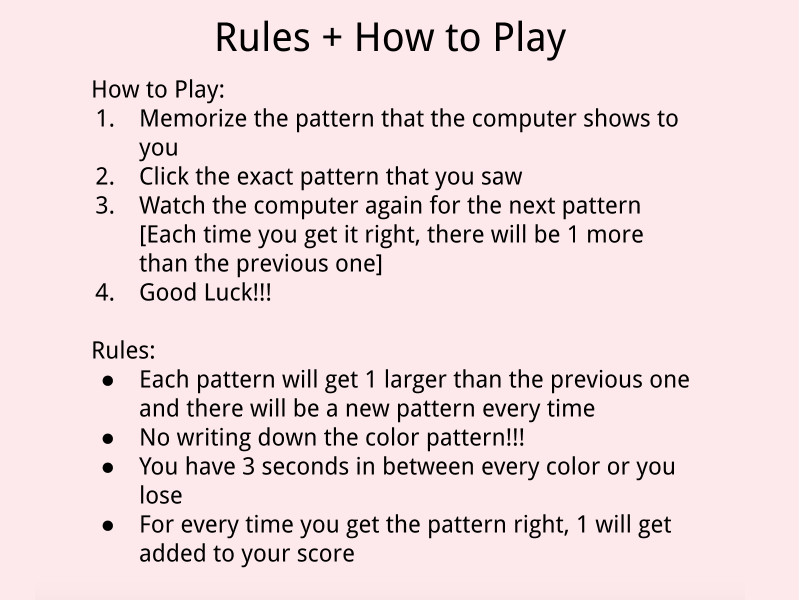
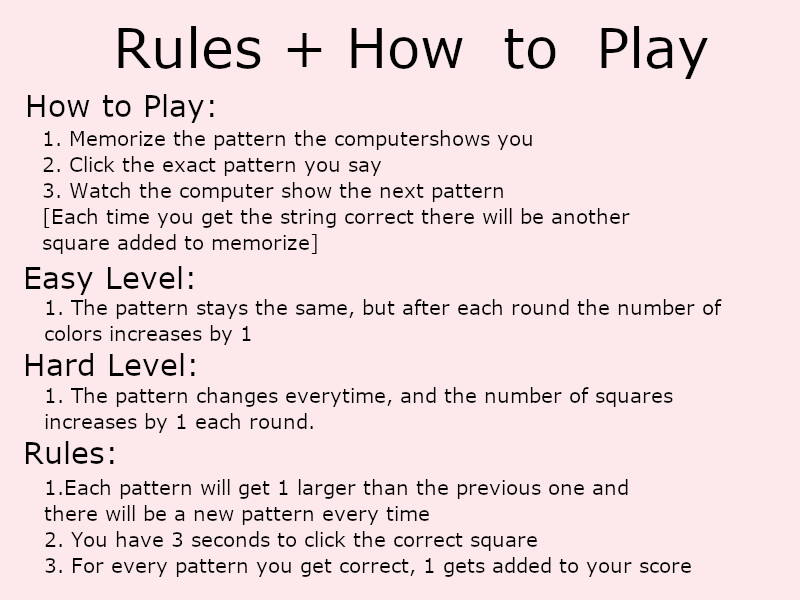
Add files via upload

Changed region(s): [[0.0312, 0.03, 0.9062, 0.96], [0.75, 0.03, 0.9062, 0.12]]

diff --git a/final project/Game.py b/final project/Game.py
@@ -4,14 +4,13 @@ import time
 from Buttons import Button
 from ColorBox import ColorBox
 from Backdrop import Backdrop
-from constants import RED, YELLOW, BLUE, GREEN, FPS, WIDTH, HEIGHT, DISPLAY, PLAY, FAILED, RULES, START, PLAY_BUTTON, BACK_BUTTON, QUIT_BUTTON, REPLAY_BUTTON, RULES_BUTTON, QUIT
+from constants import *
 
 class Game():
     """A class that holds the entire game"""
     # pythons way of stating that something is being done to a specific object is called "self"
     def __init__(self):
         pygame.init()
-
 
         self.phase = START
         self.current_index = 0
@@ -20,15 +19,25 @@ class Game():
         self.color_index = 0
         self.total_colors = 4
         self.total_score  = 0
-        self.color_list = self.get_color_list(self.total_colors)
+        self.color_list = []
+        self.get_color_list(self.total_colors)
+
+        self.difficulty = None
+
+
+        self.play_time_limit = 4 * FPS
+        self.play_timer = self.play_time_limit
+
 
         self.red_box = ColorBox(RED)
         self.yellow_box = ColorBox(YELLOW)
         self.blue_box = ColorBox(BLUE)
         self.green_box = ColorBox(GREEN)
 
-        self.play_button = Button(PLAY_BUTTON)
-        self.play_button.set_pos(350,250)
+        self.easy_level = Button(EASY_BUTTON)
+        self.easy_level.set_pos(350,250)
+        self.hard_level = Button(HARD_BUTTON)
+        self.hard_level.set_pos(350,325)
         self.back_button = Button(BACK_BUTTON)
         self.back_button.set_pos(10,10)
         self.quit_button = Button(QUIT_BUTTON)
@@ -36,13 +45,14 @@ class Game():
         self.replay_button = Button(REPLAY_BUTTON)
         self.replay_button.set_pos(340,350)
         self.rules_button = Button(RULES_BUTTON)
-        self.rules_button.set_pos(340,350)
+        self.rules_button.set_pos(340,400)
 
         self.failed_buttons = pygame.sprite.Group()
         self.failed_buttons.add(self.replay_button)
 
         self.start_buttons = pygame.sprite.Group()
-        self.start_buttons.add(self.play_button)
+        self.start_buttons.add(self.easy_level)
+        self.start_buttons.add(self.hard_level)
         self.start_buttons.add(self.rules_button)
 
         self.rules_buttons = pygame.sprite.Group()
@@ -51,14 +61,10 @@ class Game():
         self.game_buttons = pygame.sprite.Group()
         self.game_buttons.add(self.quit_button)
 
-      
-
         self.font_name = pygame.font.match_font('arial')
 
         self.total_score_font = pygame.font.Font(self.font_name, 72)
         self.other_font = pygame.font.Font(self.font_name, 30)
-
-        
 
         self.clock = pygame.time.Clock()
         self.screen = pygame.display.set_mode((WIDTH, HEIGHT))
@@ -70,8 +76,7 @@ class Game():
         self.backdrop2 = Backdrop("rules")
         self.backdrop3 = Backdrop("game_page")
         self.backdrop4 = Backdrop("failed_page") 
-       
-       
+        
         self.failed_backdrop = pygame.sprite.Group()
         self.failed_backdrop.add(self.backdrop4)
 
@@ -90,12 +95,15 @@ class Game():
         self.boxes.add(self.blue_box)
         self.boxes.add(self.red_box)
 
+
     def reset_display(self):
         self.timer = 0
+    
         self.displaying_color = True
         self.current_index = 0
-        self.phase  = DISPLAY
         self.color_index = 0
+        self.phase = DISPLAY
+
 
     def reset_game(self):
         self.phase = START
@@ -105,18 +113,35 @@ class Game():
         self.color_index = 0
         self.total_colors = 4
         self.total_score  = 0
-        self.color_list = self.get_color_list(self.total_colors)
 
+        self.get_color_list(self.total_colors)
+    
+        self.displaying_color = True
 
 
     def get_color_list(self, squares_per_level):
         """returns random list of colors"""
         color_options = [RED, YELLOW, BLUE, GREEN]
-        color_list = []
-        while len(color_list) < squares_per_level:
+
+        self.color_list.clear()
+
+        while len(self.color_list) < squares_per_level:
             color = random.choice(color_options)
-            color_list.append(color)
-        return color_list
+            self.color_list.append(color)
+
+
+    def update_color_list(self):
+        color_options = [RED, YELLOW, BLUE, GREEN]
+
+        self.color_list.append(random.choice(color_options))
+
+
+    def update_timer(self):
+        if self.play_timer > 0:
+            self.play_timer -= 1
+        else:
+            self.phase = FAILED
+
 
     def display_color_list(self):
         if self.displaying_color == True: 
@@ -129,16 +154,12 @@ class Game():
 
                 if color == RED:
                     self.red_box.activate()
-
                 elif color == GREEN:
                     self.green_box.activate()
-
                 elif color == YELLOW:
                     self.yellow_box.activate()
-
                 elif color == BLUE: 
                     self.blue_box.activate()
-
 
                 if self.color_index == len(self.color_list):
                     self.displaying_color = False
@@ -152,11 +173,6 @@ class Game():
 
         self.screen.fill((255, 222, 222))
 
-        if self.phase == DISPLAY:
-            self.display_color_list()
-        elif self.phase == PLAY:
-            pass
-        
         self.handle_input()
 
         if self.phase == START:
@@ -177,18 +193,18 @@ class Game():
             text_rect = text_surface.get_rect()
             text_rect.midtop = (350, 200)
             self.screen.blit(text_surface, text_rect)
-
         elif self.phase == DISPLAY:
+            self.display_color_list()
+
             self.boxes.update()
             self.boxes.draw(self.screen)
             self.game_buttons.update()
             self.game_buttons.draw(self.screen)
+
             text_surface = self.other_font.render("Watch the computer", True, (0,0,0))
             text_rect = text_surface.get_rect()                
             text_rect.midtop = (400, 550)
-
             self.screen.blit(text_surface, text_rect)
-
         elif self.phase == PLAY:
             self.boxes.update()
             self.boxes.draw(self.screen)
@@ -197,6 +213,11 @@ class Game():
             text_surface = self.other_font.render("Your turn", True, (0,0,0))
             text_rect = text_surface.get_rect()
             text_rect.midtop = (400, 550)
+            self.screen.blit(text_surface, text_rect)
+            self.update_timer()
+            text_surface = self.total_score_font.render("Time Left: " + str(self.play_timer//FPS), True, (0,0,0))
+            text_rect = text_surface.get_rect()
+            text_rect.midtop = (400, 100)
             self.screen.blit(text_surface, text_rect)
 
         pygame.display.flip()
@@ -209,32 +230,40 @@ class Game():
                 if event.key == pygame.K_ESCAPE:
                     self.running = False
             elif event.type == pygame.MOUSEBUTTONDOWN:
-                if self.phase == START:
-                    pos =  pygame.mouse.get_pos()
+                pos =  pygame.mouse.get_pos()
 
+                if self.phase == START:
                     for sprite in self.start_buttons:
                         if sprite.rect.collidepoint(pos):
-                            if sprite.button_type == PLAY_BUTTON:
+                            if sprite.button_type == HARD_BUTTON:
                                 self.phase = DISPLAY
-
+                                self.difficulty = HARD
+                            elif sprite.button_type == EASY_BUTTON:
+                                self.phase = DISPLAY
+                                self.difficulty = EASY
                             elif sprite.button_type  == RULES_BUTTON:
                                 self.phase = RULES
-                            
-                elif self.phase == PLAY:
-                    pos = pygame.mouse.get_pos()
 
+                elif self.phase == PLAY:
                     for sprite in self.boxes:
                         if sprite.rect.collidepoint(pos):
                             sprite.activate()
+
                             if sprite.color == self.color_list[self.current_index]:
                                 self.current_index += 1
+                                self.play_timer = self.play_time_limit
 
                                 if self.current_index == len(self.color_list):
                                     self.total_colors += 1
-                                    self.color_list = self.get_color_list(self.total_colors)
-                                    self.reset_display()
                                     self.total_score += 1
-                
+
+                                    if self.difficulty == HARD:
+                                        self.get_color_list(self.total_colors)
+                                    elif self.difficulty == EASY:
+                                        self.update_color_list()
+
+                                    self.reset_display()
+
                             else:
                                 self.phase = FAILED
 
@@ -246,7 +275,6 @@ class Game():
 
 
                 elif self.phase == RULES:
-                    pos = pygame.mouse.get_pos()          
                     for sprite in self.rules_buttons:
                         if sprite.rect.collidepoint(pos):
                             if sprite.button_type == BACK_BUTTON:
@@ -254,31 +282,20 @@ class Game():
 
 
                 elif self.phase == FAILED:
-                    pos = pygame.mouse.get_pos()
                     for sprite in self.failed_buttons:
                         if sprite.rect.collidepoint(pos):
                             if sprite.button_type == REPLAY_BUTTON:
                                 self.phase = START
 
                 elif self.phase == DISPLAY:
-                    pos = pygame.mouse.get_pos()
                     for sprite in self.game_buttons:
                         if sprite.rect.collidepoint(pos):
                             if sprite.button_type == QUIT_BUTTON:
                                 self.phase = START
                                 self.reset_game()
+    
 
-                
-
-
-
-
-
-
-
-
-
-
+                        
 
 
 
@@ -288,6 +305,7 @@ def main():
 
     while game.running:
         game.update()
+
 
 if __name__ == '__main__':
     main()

diff --git a/final project/Buttons.py b/final project/Buttons.py
@@ -2,22 +2,20 @@ import pygame
 import random 
 import time
 import pygame.freetype
-from constants import RED, YELLOW, BLUE, GREEN, FPS, WIDTH, HEIGHT, DISPLAY, PLAY, FAILED, START, PLAY_BUTTON, BACK_BUTTON, QUIT_BUTTON, REPLAY_BUTTON, RULES_BUTTON, RULES1
-
+from constants import *
 
 class Button(pygame.sprite.Sprite):
     def __init__(self, button_type):
         super().__init__()
         self.images = {}
-        self.images[PLAY_BUTTON] = pygame.image.load("assets/sprites/play_button.png")
+        self.images[EASY_BUTTON] = pygame.image.load("assets/sprites/easy_level.png")
+        self.images[HARD_BUTTON] = pygame.image.load("assets/sprites/hard_level.png")
         self.images[BACK_BUTTON] = pygame.image.load("assets/sprites/back_button.png")
         self.images[QUIT_BUTTON] = pygame.image.load("assets/sprites/quit_button.png")
         self.images[REPLAY_BUTTON] = pygame.image.load("assets/sprites/replay_button.png")
         self.images[RULES_BUTTON] = pygame.image.load("assets/sprites/rules_button.png")
 
         self.set_type(button_type)
-
-
 
 
     def set_pos(self, x, y):

diff --git a/final project/constants.py b/final project/constants.py
@@ -8,16 +8,21 @@ BLUE = 2
 GREEN = 3
 
 
-#Phases
-PLAY = "play" #play game
+# Phases
+START = "start"
+PLAY = "play"
 RULES = "rules"
 DISPLAY = "display"
 FAILED = "failed"
 QUIT = "quit"
-START = "start" #start whole game
 
-#Buttons
-PLAY_BUTTON = "play button"
+# Difficulty
+EASY = "easy"
+HARD = "hard"
+
+# Buttons
+EASY_BUTTON = "easy button"
+HARD_BUTTON = "hard button"
 BACK_BUTTON = "back button"
 QUIT_BUTTON = "quit button"
 REPLAY_BUTTON = "replay button"

diff --git a/final project/Backdrop.py b/final project/Backdrop.py
@@ -2,7 +2,7 @@ import pygame
 import random 
 import time
 import pygame.freetype
-from constants import RED, YELLOW, BLUE, GREEN, FPS, WIDTH, HEIGHT, DISPLAY, PLAY, FAILED, START, PLAY_BUTTON, BACK_BUTTON, QUIT_BUTTON, REPLAY_BUTTON, RULES_BUTTON
+from constants import *
 
 class Backdrop(pygame.sprite.Sprite):
     """The backdrop image for the game"""

diff --git a/final project/ColorBox.py b/final project/ColorBox.py
@@ -2,7 +2,7 @@ import pygame
 import random 
 import time
 import pygame.freetype
-from constants import RED, YELLOW, BLUE, GREEN, FPS, WIDTH, HEIGHT, DISPLAY, PLAY, FAILED, START, PLAY_BUTTON, BACK_BUTTON, QUIT_BUTTON, REPLAY_BUTTON, RULES_BUTTON
+from constants import *
 
 class ColorBox(pygame.sprite.Sprite):
     def __init__(self, color):
